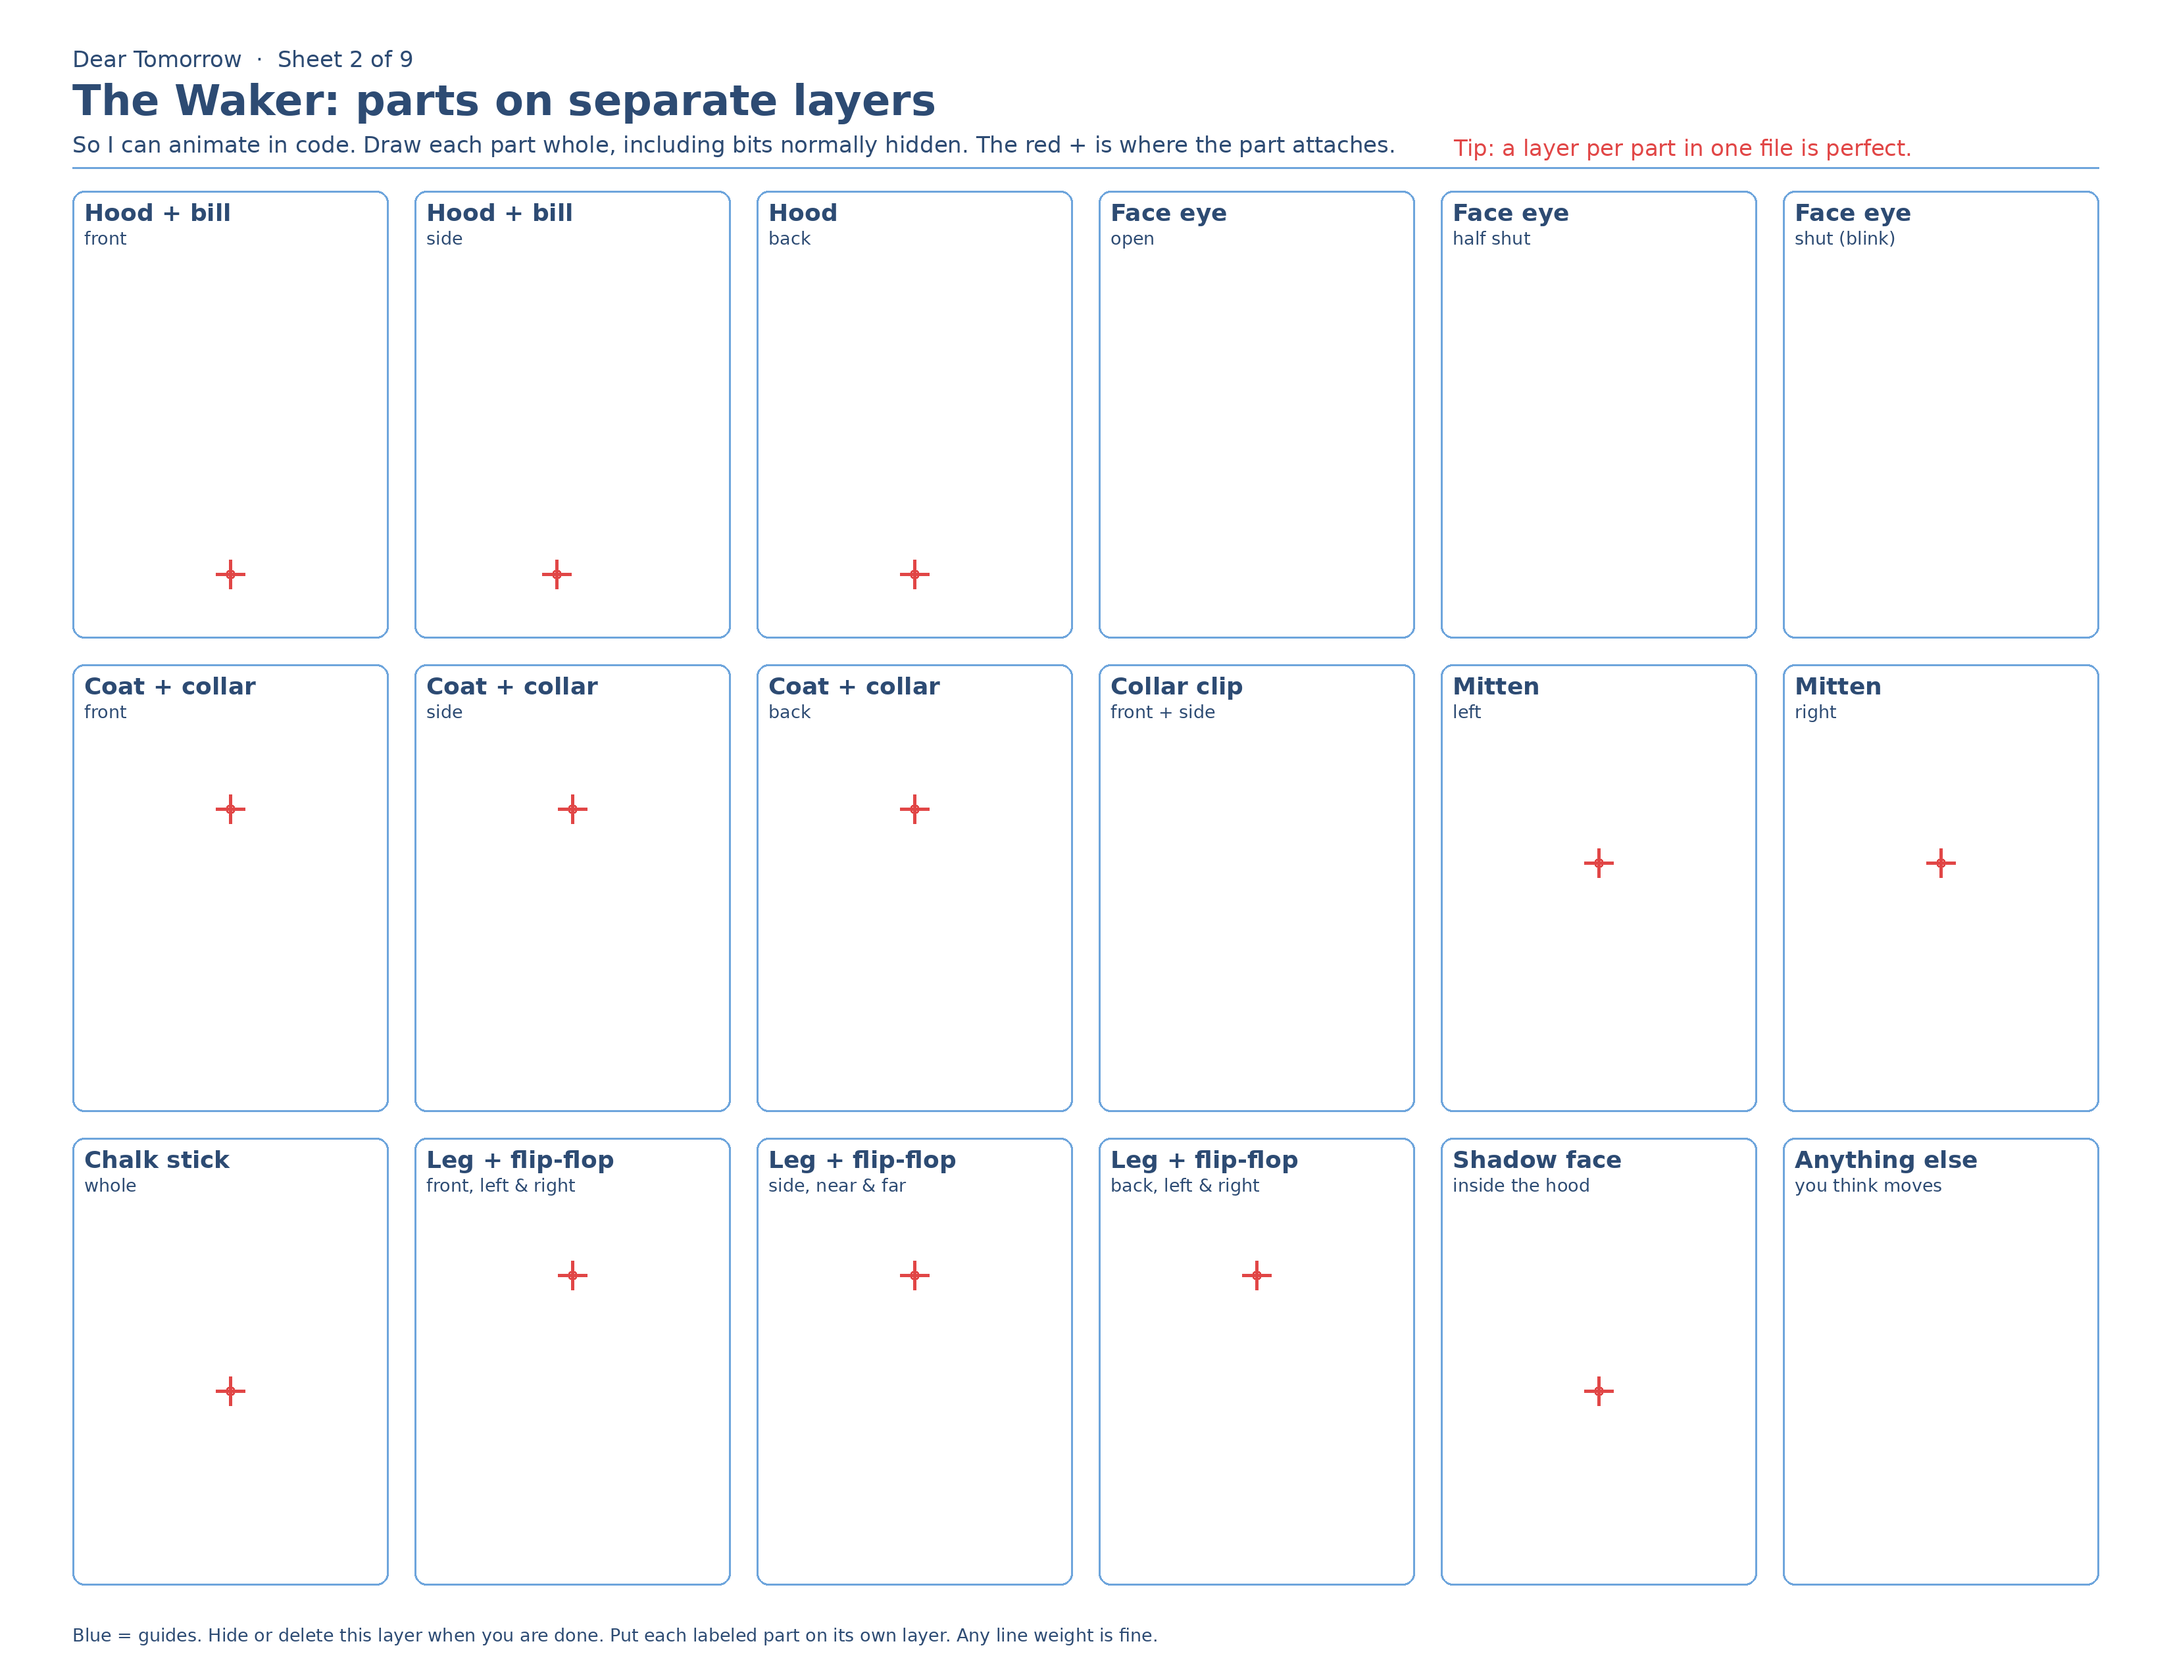
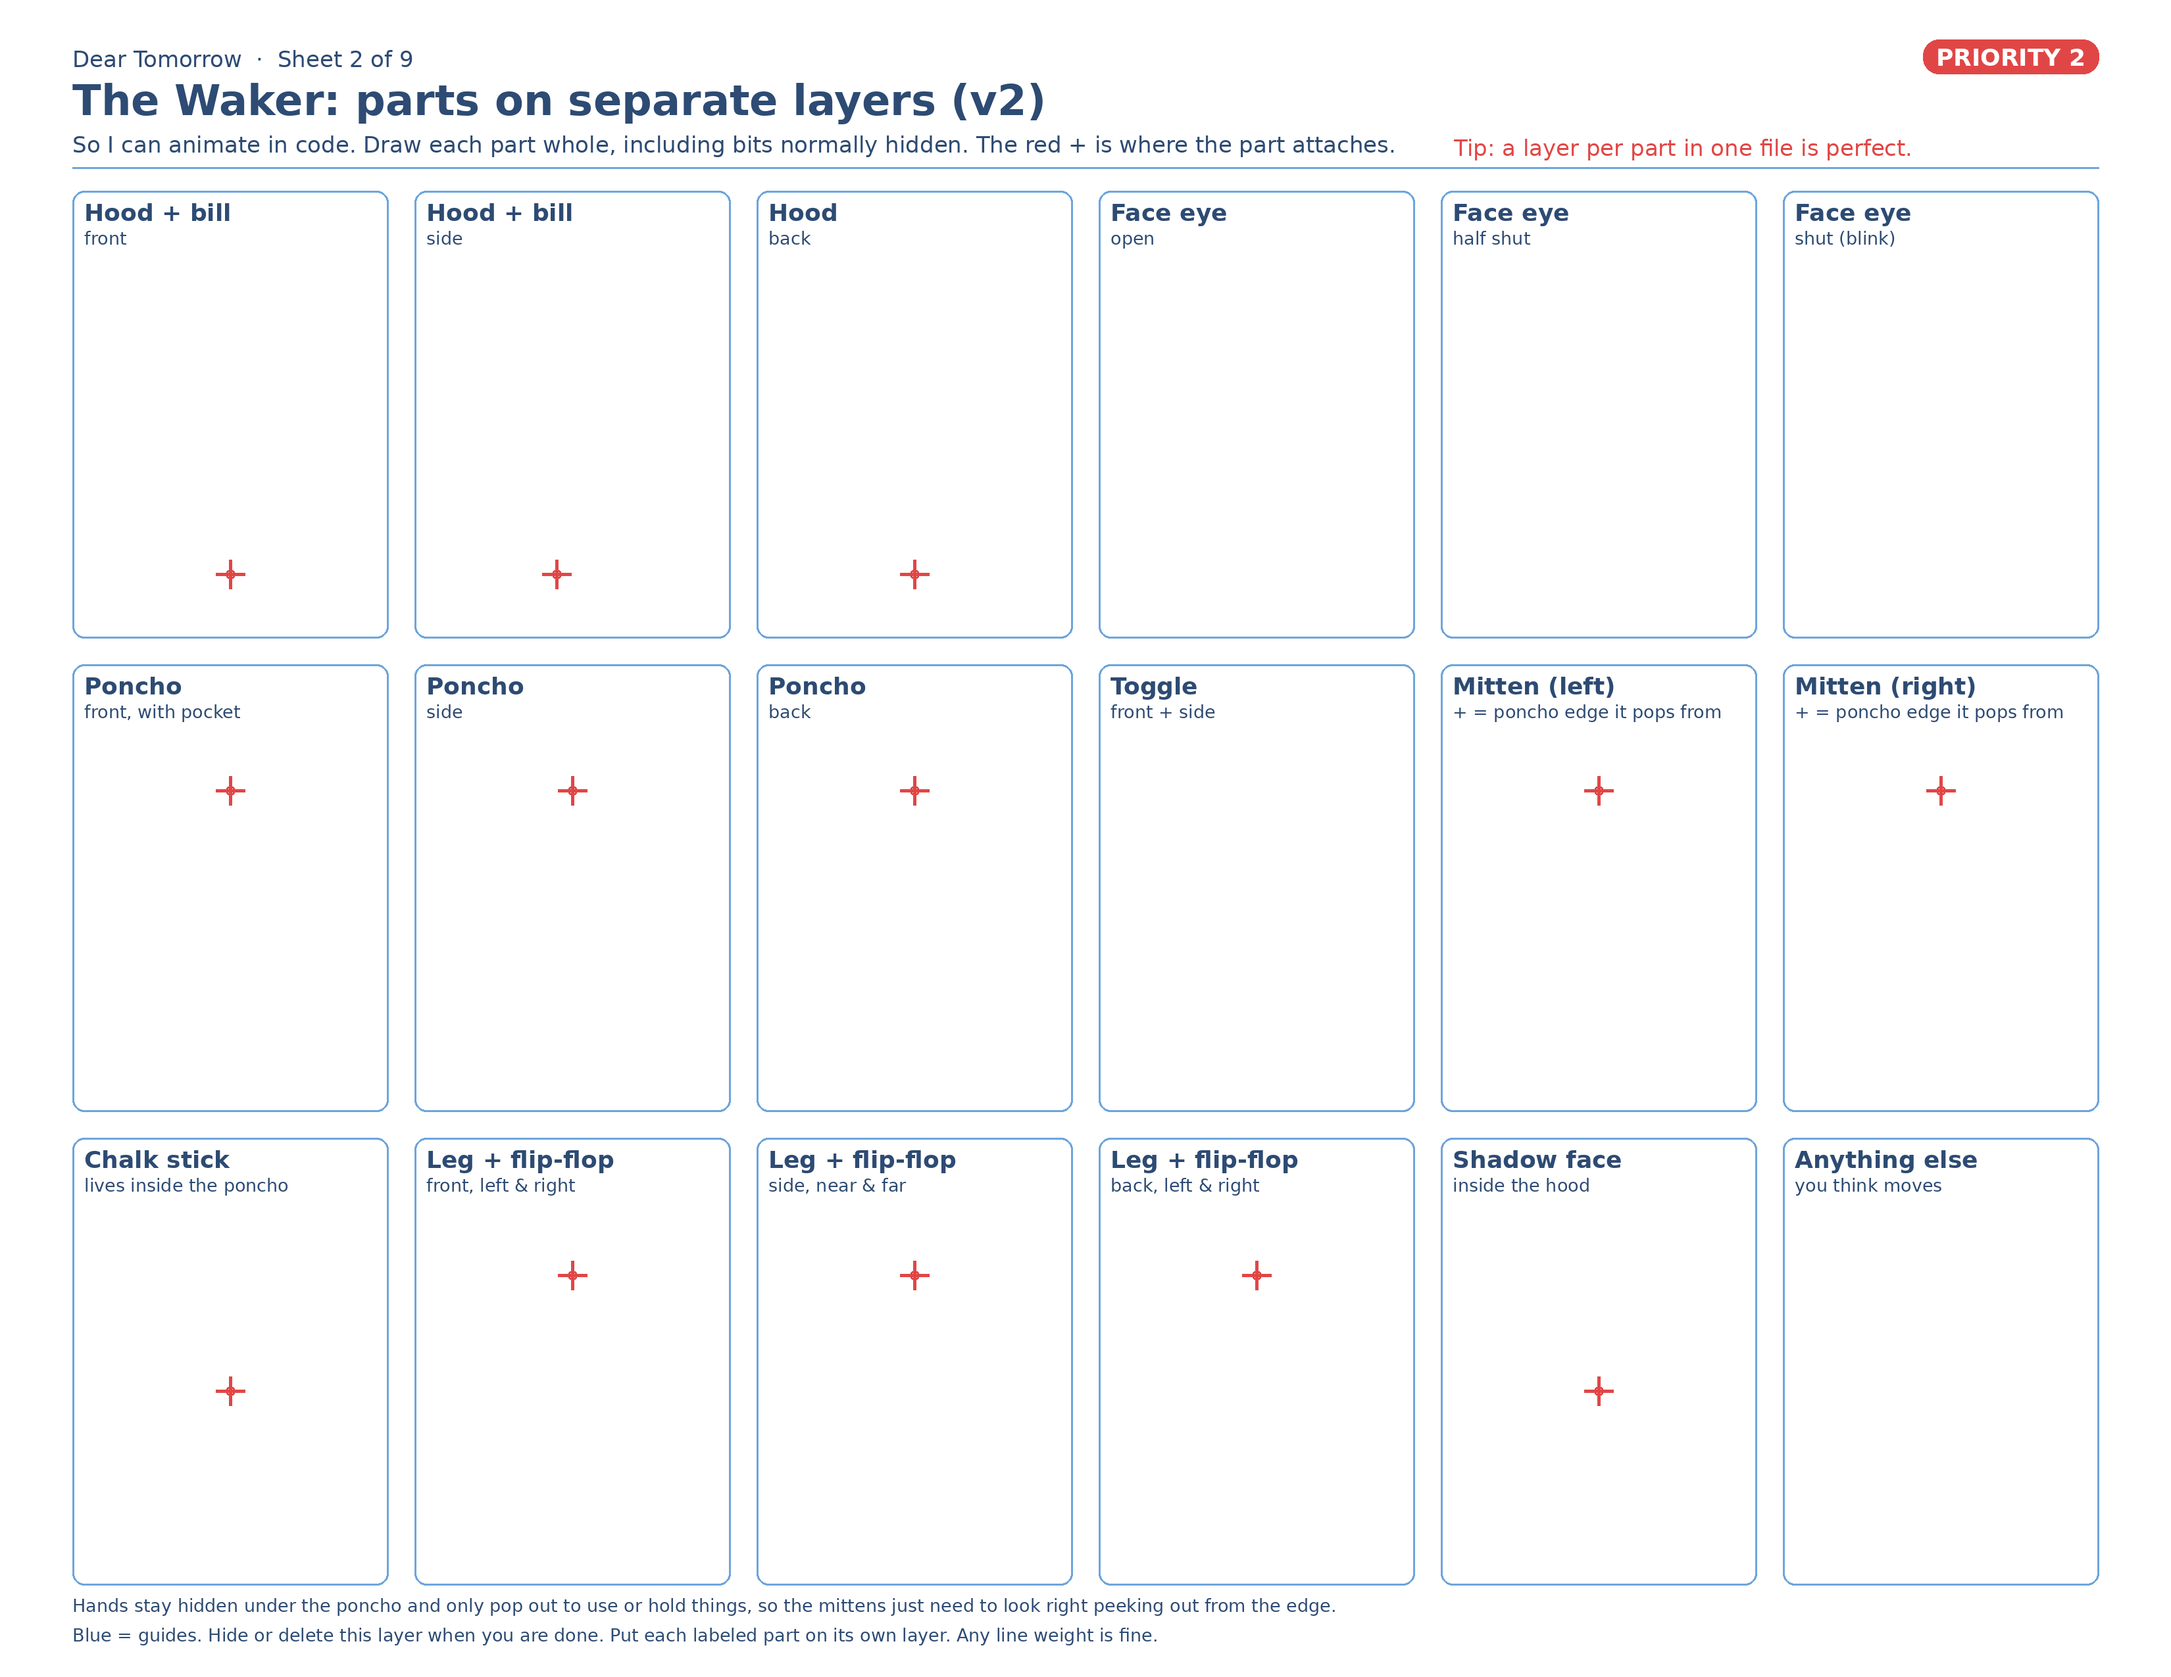
dear-tomorrow: update reference sheets for Waker v2 + priorities
Claude-Session: https://claude.ai/code/session_01FZs65ZawEF4baXJjoheMKw

diff --git a/games/dear-tomorrow/art/templates/make_sheets.py b/games/dear-tomorrow/art/templates/make_sheets.py
@@ -12,13 +12,20 @@ F = '/usr/share/fonts/truetype/dejavu/'
 def font(sz, bold=False): return ImageFont.truetype(F + ('DejaVuSans-Bold.ttf' if bold else 'DejaVuSans.ttf'), sz)
 FT, FS, FL, FN = font(64, True), font(34), font(36, True), font(27)
 
-FRONT = Image.open('/home/claude/dt-poc/waker-front.png').convert('RGBA')
-SIDE = Image.open('/home/claude/dt-poc/waker-side.png').convert('RGBA')
+FRONT = Image.open('/home/claude/sheets/v2-front.png').convert('RGBA')
+SIDE = Image.open('/home/claude/sheets/v2-side.png').convert('RGBA')
+BACK = Image.open('/home/claude/sheets/v2-back.png').convert('RGBA')
 # proportions measured on the front view (fraction of full height, top = 0)
-GUIDES = [(0.0, 'top of hood loop'), (0.10, 'top of hood'), (0.31, 'bill edge'), (0.47, 'collar'), (0.79, 'coat hem'), (1.0, 'ground')]
+GUIDES = [(0.0, 'top of hood'), (0.09, 'top of bill'), (0.30, 'hood meets poncho'), (0.46, 'toggle'), (0.77, 'poncho hem'), (1.0, 'ground')]
 
+PRIORITY = {1: 'DONE (v2): only if you change the design', 2: 'PRIORITY 2', 3: 'PRIORITY 3', 4: 'later', 5: 'later', 6: 'later', 7: 'later', 8: 'PRIORITY 1: most useful first', 9: 'whenever a friend has 10 min'}
 def new_sheet(n, total, title, note):
     im = Image.new('RGB', (W, H), 'white'); d = ImageDraw.Draw(im)
+    tag = PRIORITY.get(n)
+    if tag:
+        tw = d.textlength(tag, font=FL) + 40
+        d.rounded_rectangle([W - M - tw, 60, W - M, 112], radius=24, fill=RED if 'PRIORITY' in tag else (150, 170, 190))
+        d.text((W - M - tw + 20, 66), tag, font=FL, fill='white')
     d.text((M, 70), f'Dear Tomorrow  ·  Sheet {n} of {total}', font=FS, fill=TXT)
     d.text((M, 115), title, font=FT, fill=TXT)
     d.text((M, 200), note, font=FS, fill=TXT)
@@ -71,28 +78,28 @@ sheets = []
 TOTAL = 9
 
 # 1 · Waker turnaround -------------------------------------------------------
-im, d = new_sheet(1, TOTAL, 'The Waker: turnaround', 'Front, side and back at the same height. Your existing drawings are ghosted in to trace or redraw.')
+im, d = new_sheet(1, TOTAL, 'The Waker: turnaround (v2)', 'Already done. Your v2 front, side and back are ghosted in. Use this sheet only if you redesign.')
 top, bot = 300, H - 150; bw = 900; gap = 40; x = M
 hpx = 1250
-for i, (lab, sub) in enumerate([('Front', 'redraw or trace your v1'), ('Side (facing right)', 'redraw or trace your v1'), ('Back', 'new: please draw this one')]):
+for i, (lab, sub) in enumerate([('Front', 'v2, done'), ('Side (facing right)', 'v2, done'), ('Back', 'v2, done')]):
     bx = x + i * (bw + gap)
     gy = box(d, bx, top, bw, bot - top, lab, sub, ground=0.93)
     if i == 0: ghost(im, FRONT, (bx + bw / 2, gy), hpx)
     if i == 1: ghost(im, SIDE, (bx + bw / 2, gy), hpx)
-    if i == 2: ghost(im, FRONT, (bx + bw / 2, gy), hpx, alpha=0.06)
+    if i == 2: ghost(im, BACK, (bx + bw / 2, gy), hpx)
 height_guides(d, M + 14, M + 3 * bw + 2 * gap - 14, gy, hpx)
 d.text((M + 3 * bw + 2 * gap + 10, top + 130), 'Optional:\n3/4 view\n(if you like)', font=FN, fill=TXT)
 sheets.append(im)
 
 # 2 · Waker parts for rigging ------------------------------------------------
-im, d = new_sheet(2, TOTAL, 'The Waker: parts on separate layers', 'So I can animate in code. Draw each part whole, including bits normally hidden. The red + is where the part attaches.')
+im, d = new_sheet(2, TOTAL, 'The Waker: parts on separate layers (v2)', 'So I can animate in code. Draw each part whole, including bits normally hidden. The red + is where the part attaches.')
 cols, rows = 6, 3; gx, gy0 = M, 290; cw = (W - 2 * M - (cols - 1) * 40) / cols; ch = (H - gy0 - 140 - (rows - 1) * 40) / rows
 parts = [
     ('Hood + bill', 'front', (0.5, 0.86)), ('Hood + bill', 'side', (0.45, 0.86)), ('Hood', 'back', (0.5, 0.86)),
     ('Face eye', 'open', None), ('Face eye', 'half shut', None), ('Face eye', 'shut (blink)', None),
-    ('Coat + collar', 'front', (0.5, 0.2)), ('Coat + collar', 'side', (0.5, 0.2)), ('Coat + collar', 'back', (0.5, 0.2)),
-    ('Collar clip', 'front + side', None), ('Mitten', 'left', (0.5, 0.35)), ('Mitten', 'right', (0.5, 0.35)),
-    ('Chalk stick', 'whole', (0.5, 0.5)), ('Leg + flip-flop', 'front, left & right', (0.5, 0.18)), ('Leg + flip-flop', 'side, near & far', (0.5, 0.18)),
+    ('Poncho', 'front, with pocket', (0.5, 0.15)), ('Poncho', 'side', (0.5, 0.15)), ('Poncho', 'back', (0.5, 0.15)),
+    ('Toggle', 'front + side', None), ('Mitten (left)', '+ = poncho edge it pops from', (0.5, 0.15)), ('Mitten (right)', '+ = poncho edge it pops from', (0.5, 0.15)),
+    ('Chalk stick', 'lives inside the poncho', (0.5, 0.5)), ('Leg + flip-flop', 'front, left & right', (0.5, 0.18)), ('Leg + flip-flop', 'side, near & far', (0.5, 0.18)),
     ('Leg + flip-flop', 'back, left & right', (0.5, 0.18)), ('Shadow face', 'inside the hood', (0.5, 0.5)), ('Anything else', 'you think moves', None),
 ]
 for i, (lab, sub, pv) in enumerate(parts):
@@ -100,21 +107,22 @@ for i, (lab, sub, pv) in enumerate(parts):
     box(d, bx, by, cw, ch, lab, sub, ground=None, center=False)
     if pv: pivot(d, bx + cw * pv[0], by + 110 + (ch - 130) * pv[1])
 d.text((W - M - 980, 205), 'Tip: a layer per part in one file is perfect.', font=FS, fill=RED)
+d.text((M, H - 125), 'Hands stay hidden under the poncho and only pop out to use or hold things, so the mittens just need to look right peeking out from the edge.', font=FN, fill=TXT)
 sheets.append(im)
 
 # 3 · Waker poses ------------------------------------------------------------
-im, d = new_sheet(3, TOTAL, 'The Waker: special poses', 'Poses the puppet can\'t make on its own. The walk row is optional: I can animate walking in code.')
+im, d = new_sheet(3, TOTAL, 'The Waker: special poses (v2)', 'Poses the puppet can\'t make on its own. Hands only come out from under the poncho when they\'re needed.')
 bw, bh, y0 = (W - 2 * M - 4 * 40) / 5, 1080, 290
 hp = 720
-poses = [('Writing on the Board', 'side, chalk raised high'), ('Asleep in the hammock', 'lying down, curled'), ('Waking up', 'front, big stretch'),
+poses = [('Writing on the Board', 'back view, chalk raised high'), ('Asleep in the hammock', 'lying down, curled'), ('Waking up', 'front, big stretch'),
          ('Holding a note', 'front, card in both mittens'), ('Surprised', 'front, eye wide, hop')]
 for i, (lab, sub) in enumerate(poses):
     bx = M + i * (bw + 40); g = box(d, bx, y0, bw, bh, lab, sub, ground=0.93)
-    ghost(im, SIDE if i == 0 else FRONT, (bx + bw / 2, g), hp, alpha=0.07)
+    ghost(im, BACK if i == 0 else FRONT, (bx + bw / 2, g), hp, alpha=0.07)
 y1 = y0 + bh + 60; bw2 = (W - 2 * M - 3 * 40) / 4; bh2 = H - y1 - 140
-for i, lab in enumerate(['Walk 1 · contact', 'Walk 2 · down', 'Walk 3 · passing', 'Walk 4 · up']):
-    bx = M + i * (bw2 + 40); g = box(d, bx, y1, bw2, bh2, lab, 'side, optional', ground=0.9)
-    ghost(im, SIDE, (bx + bw2 / 2, g), int(bh2 * 0.7), alpha=0.07)
+for i, (lab, sub, src) in enumerate([('Digging', 'side, mittens out, sand flying', SIDE), ('Reading the Board', 'back view, head tilted up', BACK), ('Sitting on the sand', 'side, resting', SIDE), ('Waving', 'front, one mitten out', FRONT)]):
+    bx = M + i * (bw2 + 40); g = box(d, bx, y1, bw2, bh2, lab, sub, ground=0.9)
+    ghost(im, src, (bx + bw2 / 2, g), int(bh2 * 0.7), alpha=0.07)
 sheets.append(im)
 
 # 4 · Tortoise ---------------------------------------------------------------
